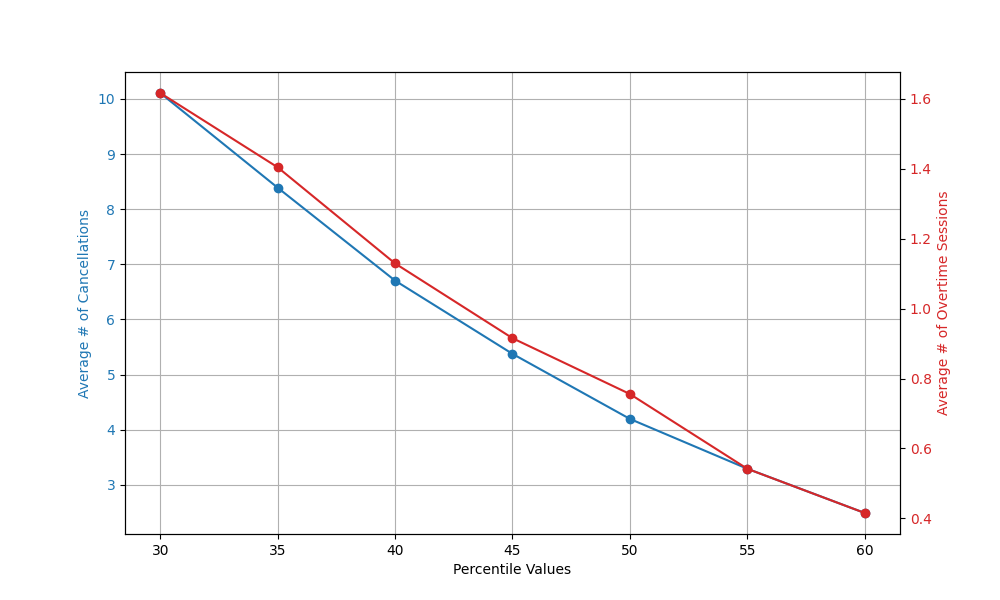
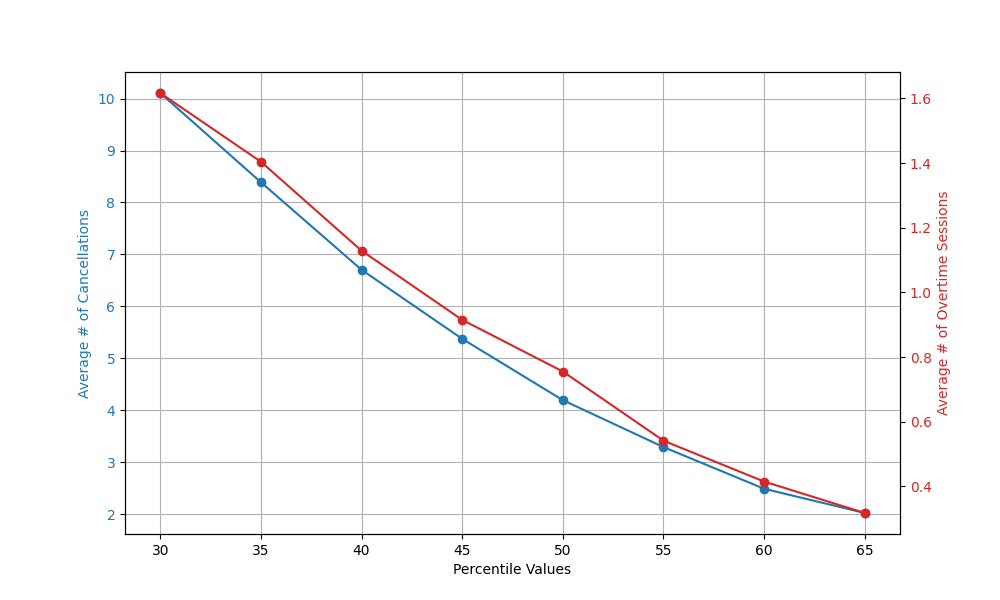
a few more results generated

diff --git a/brodie_perrie_code/src/scripts/run_inconvenience_simulation.py b/brodie_perrie_code/src/scripts/run_inconvenience_simulation.py
@@ -71,7 +71,7 @@ settings_perrie = {
     'sp': True,
     'mdp': -1,
     'mds': -1,
-    'ioc': False,
+    'ioc': True,
     'ipc': False
 }
 
@@ -110,7 +110,7 @@ for settings_dict in settings_dicts:
     chance_of_inconvenience_for_each_day_month_week = 0.069
     obj_type = "t&p matrix"
     #set to true if you want to manually resolve each gurobi problem and ignore stored solutions
-    solve_anyway = False
+    solve_anyway = True
     #set how long it takes for someone to be considered tardy
     months_considered_tardy = 3
     days_considered_tardy = round(months_considered_tardy*(365/12)) #try 2 months for next disruption comparison run
@@ -180,7 +180,7 @@ for settings_dict in settings_dicts:
         perfect_infos_considered = [True, False] if is_perfect_info_considered else [False]
         for perfect_info_bool in perfect_infos_considered:
             #OVERTIME LOOP
-            overtimes_considered = [0, 15, 30, 45, 60] if is_overtime_considered else [allowed_overtime_default]
+            overtimes_considered = [30] if is_overtime_considered else [allowed_overtime_default]
             for allowed_overtime in overtimes_considered:
 
                     #DISRUPTION LOOP
@@ -188,7 +188,7 @@ for settings_dict in settings_dicts:
                     for is_disruption_considered in is_disruption_considered_options:
 
                         # PERCENTILES LOOP
-                        percentiles_considered = [65] if solve_percentiles else [default_percentile_value]
+                        percentiles_considered = [45] if solve_percentiles else [default_percentile_value]
                         for percentile_value in percentiles_considered:
 
                             #list for keeping track of swaps/disruption
@@ -260,7 +260,7 @@ for settings_dict in settings_dicts:
                                 #use this suffix in the name of any csv output from an experiment over 15 iterations
                                 suffix = f"s_{specialty_id}_f_{facility}_sd_{start_date_formatted}_ed_{end_date_formatted}_"
                                 suffix += f"ipic_{'T' if is_perfect_info_considered else 'F'}_idce_{'T' if is_disruption_considered_this_experiment else 'F'}_mdp_{max_disruption_parameter}_"
-                                suffix += f"mds_{max_disruption_shift}_ipc_{'T' if solve_percentiles else 'F'}_pc_{percentiles_considered}_ioc_{'T' if is_overtime_considered else 'F'}_dct_{days_considered_tardy}_"
+                                suffix += f"mds_{max_disruption_shift}_ipc_{'T' if solve_percentiles else 'F'}_pc_{percentiles_considered}_ioc_{overtimes_considered}_dct_{days_considered_tardy}_"
                                 suffix += f"tl_{time_lim_other_weeks}_og_{str(optimality_gap).split('.')[1]}"
                                 #use this suffix for any one iteration run
                                 suffix_for_iter = f"i_{iter}_pi_{'T' if perfect_info_string == 'True' else 'F'}_pc_{percentile_value}_ao_{allowed_overtime}_idc_{is_disruption_considered_string[0]}_" + suffix

diff --git a/brodie_perrie_code/exp_plotting_perrie.py b/brodie_perrie_code/exp_plotting_perrie.py
@@ -76,9 +76,16 @@ def plot_dual_average_values(df, x_column, y1_column, y2_column, fig_title, xlab
 folder_path = 'brodie_perrie_code/output/perrie_experiments'
 
 # overtime results
-filename = 'metricss_0_f_A_sd_0301_ed_0301_ipic_F_idce_F_mdp_-1_mds_-1_ipc_F_pc_[50]_ioc_T_dct_91_tl_20_og_05.csv'
+filename = 'metricss_0_f_A_sd_1503_ed_1603_ipic_F_idce_F_mdp_-1_mds_-1_ipc_F_pc_[50]_ioc_[0, 15, 30, 45, 60, 75, 90]_dct_91_tl_20_og_05.csv'
 file_path = os.path.join(folder_path, filename)
 overtime_dataframe  = pd.read_csv(file_path)
+
+# # extra overtime results
+# filename_2 = 'metricss_0_f_A_sd_1503_ed_1603_ipic_F_idce_F_mdp_-1_mds_-1_ipc_F_pc_[50]_ioc_[75, 90]_dct_91_tl_20_og_05.csv'
+# file_path_2 = os.path.join(folder_path, filename_2)
+# overtime_dataframe_2 = pd.read_csv(file_path_2)
+
+# overtime_dataframe = pd.concat([overtime_dataframe, overtime_dataframe_2], ignore_index=True)
 
 x_col = "allowed overtime"
 y_col1 = "total cancelled overtime"
@@ -96,6 +103,13 @@ plot_dual_average_values(overtime_dataframe, x_col, y_col1, y_col2, fig_title = 
 filename = 'metricss_0_f_A_sd_0301_ed_0301_ipic_F_idce_F_mdp_-1_mds_-1_ipc_T_pc_[30, 35, 40, 45, 50, 55, 60]_ioc_F_dct_91_tl_20_og_05.csv'
 file_path = os.path.join(folder_path, filename)
 percentile_dataframe = pd.read_csv(file_path)
+
+# percentile results
+filename_2 = 'metricss_0_f_A_sd_1503_ed_1603_ipic_F_idce_F_mdp_-1_mds_-1_ipc_T_pc_[65]_ioc_F_dct_91_tl_20_og_05.csv'
+file_path_2 = os.path.join(folder_path, filename_2)
+percentile_dataframe_2 = pd.read_csv(file_path_2)
+
+percentile_dataframe = pd.concat([percentile_dataframe, percentile_dataframe_2], ignore_index=True)
 
 x_col = "percentile"
 y_col1 = "total cancelled overtime"

diff --git a/brodie_perrie_code/src/configs.py b/brodie_perrie_code/src/configs.py
@@ -5,8 +5,8 @@ this_path = os.path.abspath(os.path.dirname(__file__))
 
 DATABASE_DIR = os.path.abspath(os.path.join(this_path, os.pardir, 'data'))
 OUTPUT_DIR = os.path.abspath(os.path.join(this_path, os.pardir, 'output'))
-OUTPUT_DB_DIR = os.path.abspath(os.path.join(OUTPUT_DIR, 'databases'))
-# OUTPUT_DB_DIR = os.path.abspath(os.path.join(OUTPUT_DIR, 'perrie_experiments'))
+# OUTPUT_DB_DIR = os.path.abspath(os.path.join(OUTPUT_DIR, 'databases'))
+OUTPUT_DB_DIR = os.path.abspath(os.path.join(OUTPUT_DIR, 'perrie_experiments'))
 OUTPUT_DB_DIR_TEST = os.path.abspath(os.path.join(OUTPUT_DIR, 'databaseTests'))
 OUTPUT_FIG_DIR = os.path.abspath(os.path.join(OUTPUT_DIR, 'figures'))
 

diff --git a/brodie_perrie_code/src/helper_funcs.py b/brodie_perrie_code/src/helper_funcs.py
@@ -402,7 +402,7 @@ class inconvenienceProb:
       self.cost[o.n] = {}
       for s in self.sess:
           tardiness = max([s.sdt - o.dd, 0])
-          self.cost[o.n][s.n] = 3000*tardiness + (o.priority*s.sdt) #TODO make so 365 is replaced with days_in_simulation_period    
+          self.cost[o.n][s.n] = 365*tardiness + (o.priority*s.sdt) #TODO make so 365 is replaced with days_in_simulation_period    
     # plot_cost(self.cost)
 
     if self.obj_type == "t":
